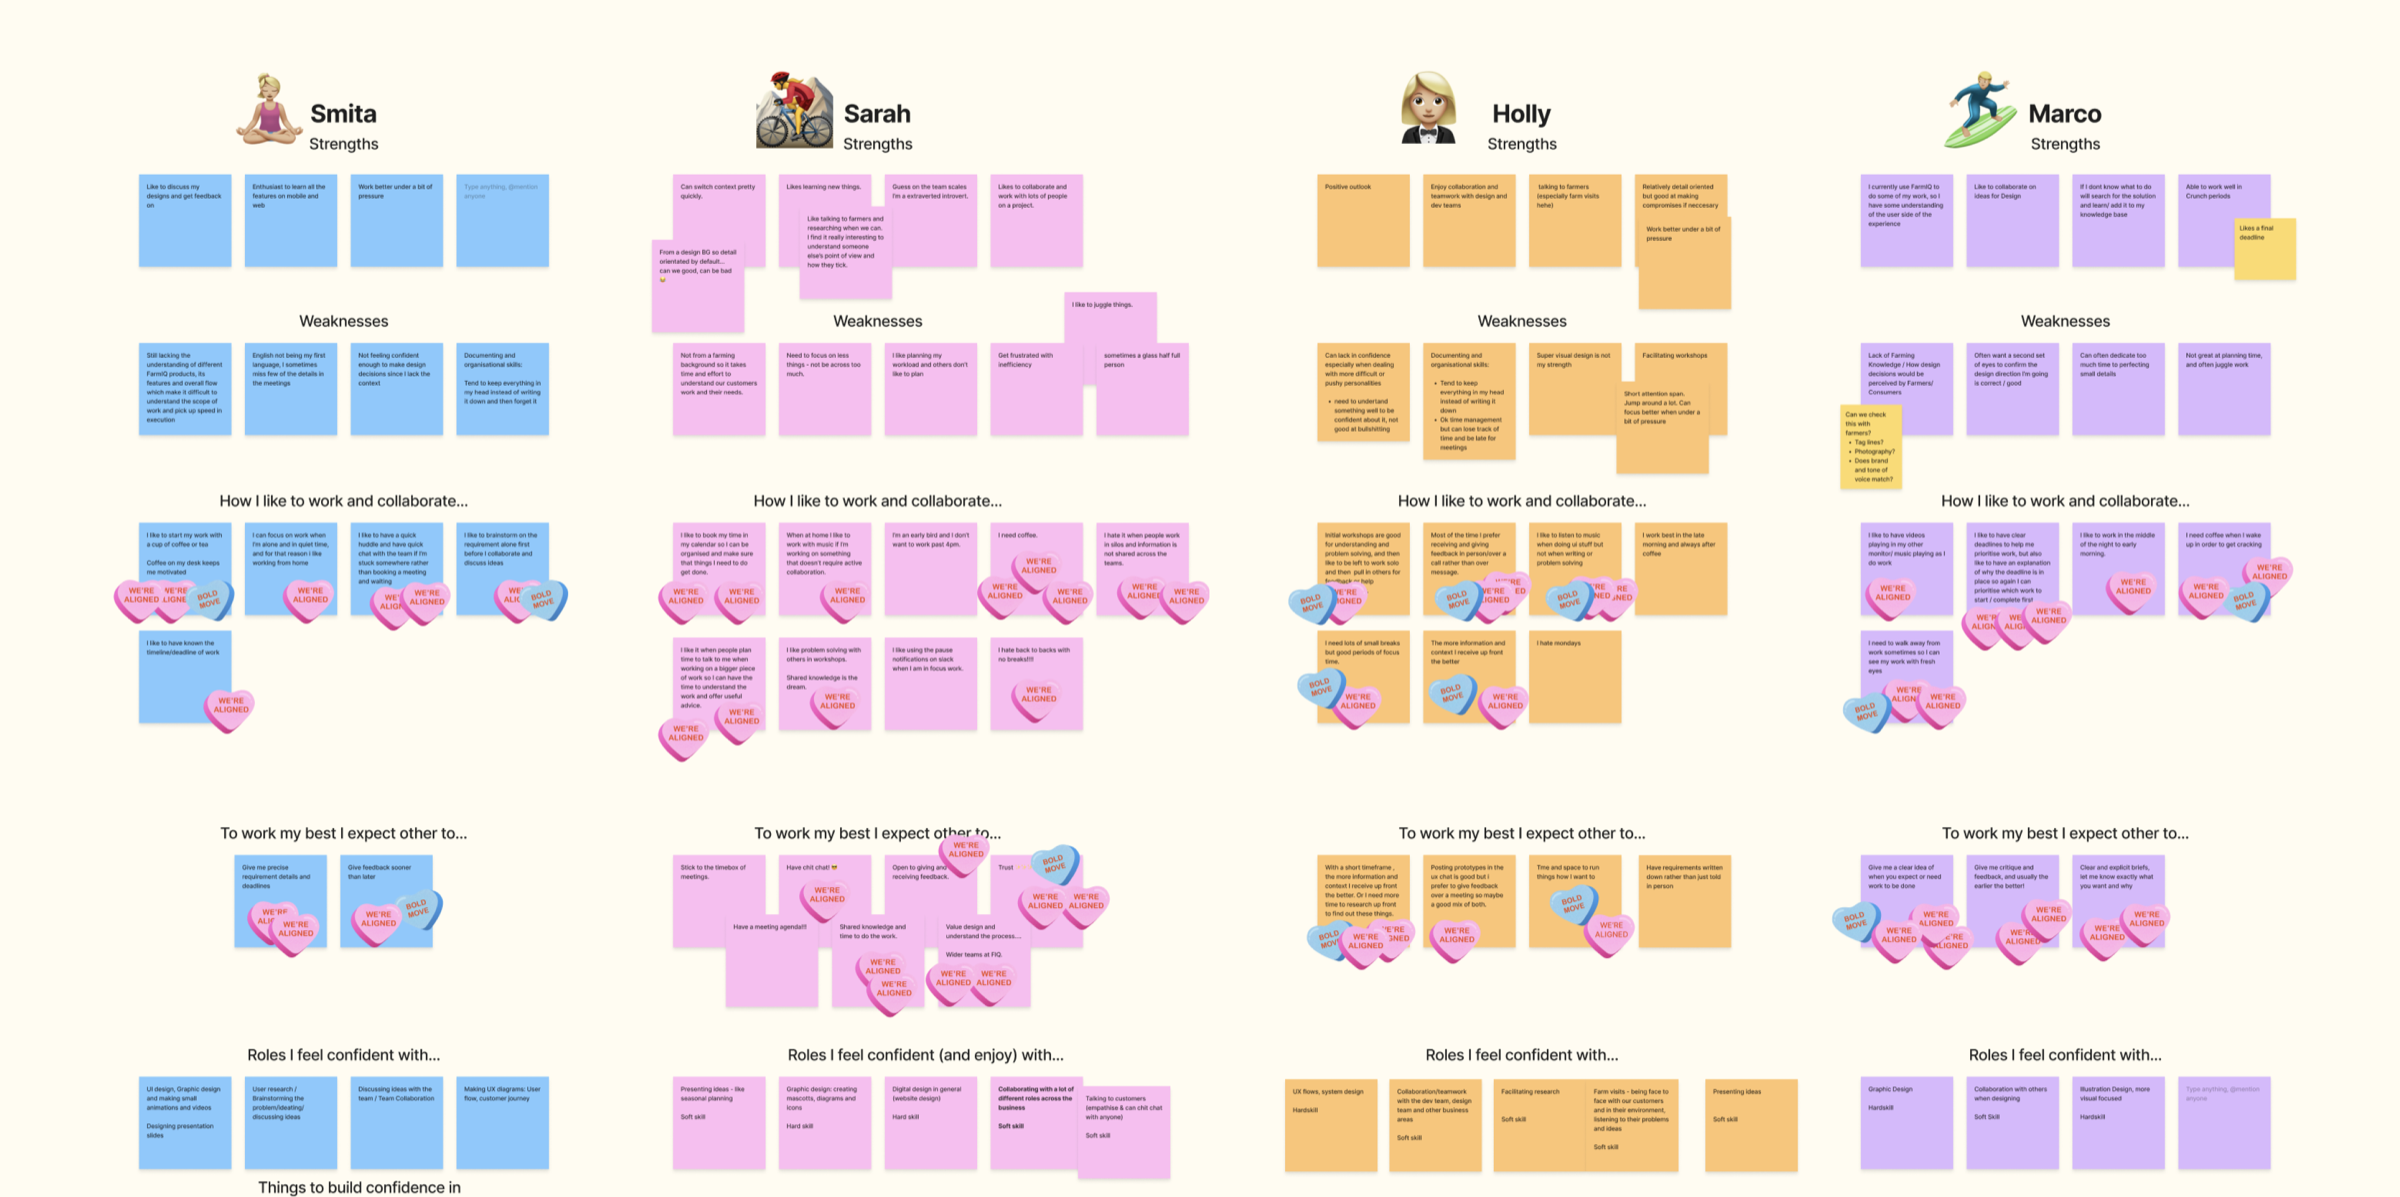
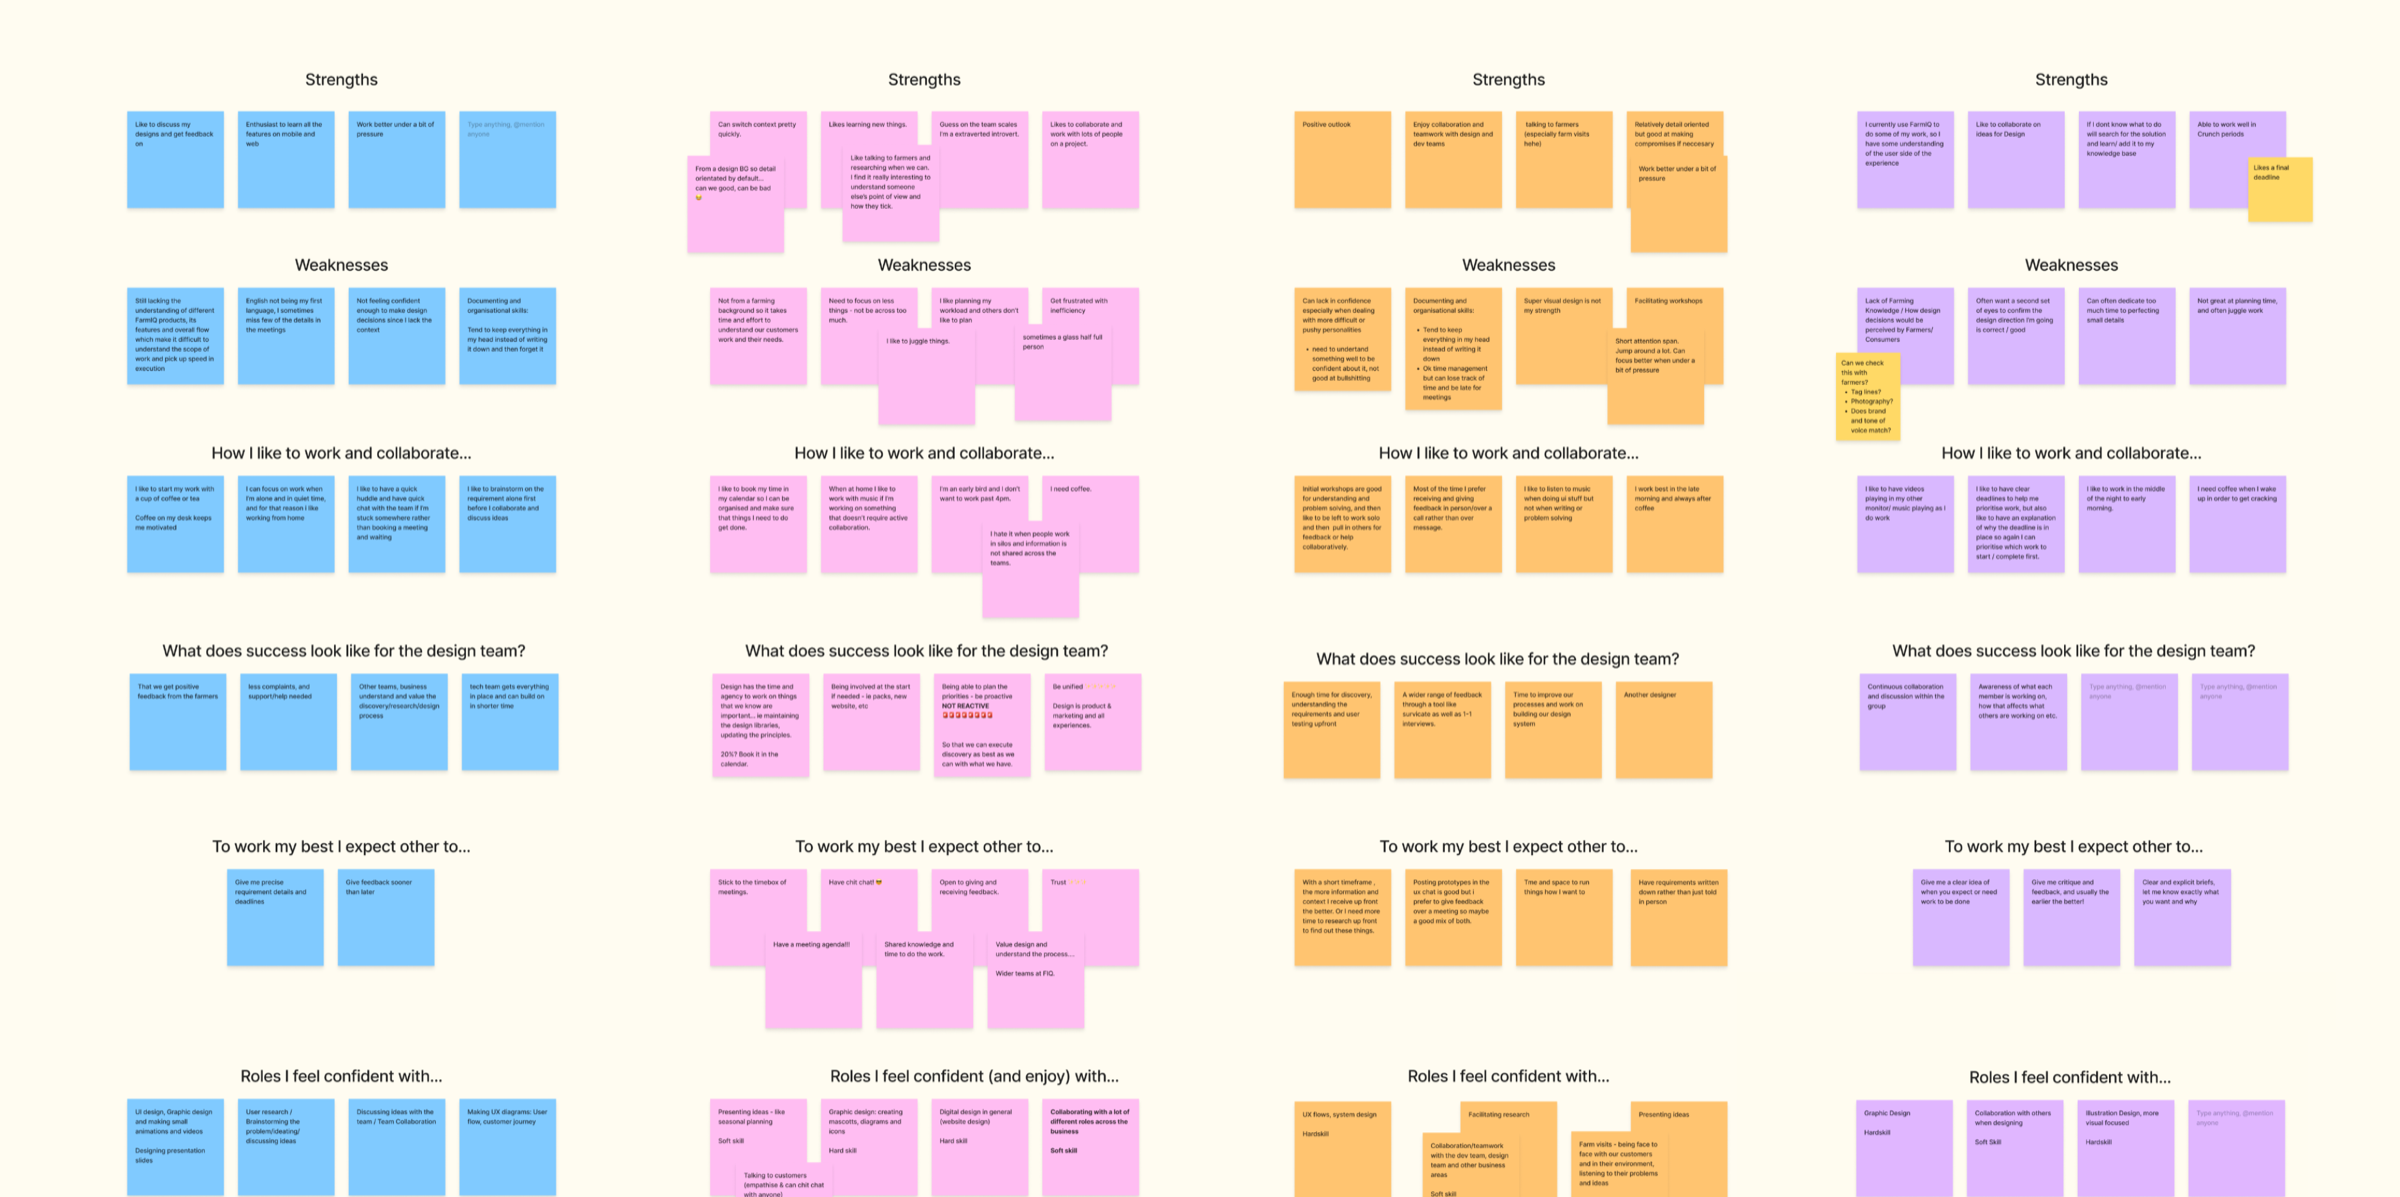
Design Leadership & case study fixes

diff --git a/src/data/case-studies/design-leadership.ts b/src/data/case-studies/design-leadership.ts
@@ -49,11 +49,14 @@ export const designLeadership: CaseStudy = {
     variant: "team",
     background: {
       src: "/images/design-leadership/01-hero-board.png",
-      alt: "Team retro board — strengths, weaknesses, and working styles for Smita, Sarah, Holly, and Marco",
-      // Pre-cropped by Sarah in Figma to her exact chosen bottom edge
-      // (01-hero-cover-CROP.png, 2026-08-15) — not consumed by TeamHero.astro
-      // itself (it reads the image's own natural size), kept accurate here
-      // for documentation/consistency with the rest of the schema.
+      alt: "Team charter board — strengths, working styles, and collaboration agreements for Smita, Sarah, Holly, and Marco",
+      // Pre-cropped by Sarah in Figma to her exact chosen bottom edge, then
+      // re-exported 2026-09-06 with the candy-heart stickers removed ("Cover-
+      // Less Hearts.png" in New Website/Leadership/) — they read too playful
+      // at hero scale and undercut the leadership framing; the stickies stay.
+      // Not consumed by TeamHero.astro itself (it reads the image's own
+      // natural size), kept accurate here for schema consistency. Resized to
+      // 2400px wide on import (from 4060) — same crop, same 2400/1197 ratio.
       aspect: "2400/1197",
     },
     people: [
@@ -89,7 +92,7 @@ export const designLeadership: CaseStudy = {
         },
       ],
       paragraphs: [
-        "I led FarmIQ's shift from ad-hoc design and fragmented UI to a repeatable operating model and multi-platform design system, grounded in real farmer roles and jobs-to-be-done.",
+        "I led FarmIQ's shift from ad-hoc design and fragmented UI to a repeatable operating model and multi-platform design system, grounded in real farmer roles and jobs-to-be-done. It started with the team itself. In a charter session, we mapped our strengths, working styles, and how we'd collaborate.",
         "What started as inconsistent products and a newly re-formed team became a governed system that let us move fast without sacrificing quality. The same foundations that went on to power two of FIQ's most-used features that I crafted, Diary and Tasks.",
       ],
       quote: {
@@ -101,7 +104,8 @@ export const designLeadership: CaseStudy = {
     {
       type: "imageBand",
       spacingBefore: "tighter",
-      layout: "two-equal",
+      wide: true,
+      layout: "two-uneven",
       images: [
         {
           src: "/images/design-leadership/07-brand-consistency.png",
@@ -150,6 +154,7 @@ export const designLeadership: CaseStudy = {
     {
       type: "imageBand",
       spacingBefore: "tight",
+      wide: true,
       background: "dots",
       layout: "two-equal",
       images: [
@@ -172,6 +177,7 @@ export const designLeadership: CaseStudy = {
     {
       type: "imageBand",
       spacingBefore: "tighter",
+      wide: true,
       background: "dots",
       layout: "single",
       images: [
@@ -272,7 +278,7 @@ export const designLeadership: CaseStudy = {
     },
     {
       type: "imageBand",
-      spacingBefore: "tighter",
+      spacingBefore: "tight",
       wide: true,
       background: "solid",
       layout: "three-grid",
@@ -411,7 +417,7 @@ export const designLeadership: CaseStudy = {
             aspect: "834/440",
           },
           quote:
-            "Sarah is laser focused on improving the customers' overall experience of the product, but she knows that won't be best served unless the whole team functions well. She has worked hard to improve collaboration within the Product Team, taking on extra work to ensure development always had what they needed. She tackles problems with expertise, energy, and a great attitude.",
+            "Sarah is laser focused on the customer experience, but she knows that won't be served unless the whole team functions well. She worked hard to improve collaboration within the Product Team, taking on extra work so development had what they needed.",
           attribution: "Todd White · Head of Product, FarmIQ",
           // Real photo: group farm shot, subjects spread across the frame —
           // text sits on the left per Figma, over the more open grass area.
@@ -433,9 +439,9 @@ export const designLeadership: CaseStudy = {
             aspect: "834/440",
           },
           quote:
-            "Sarah uplifted how we did research at FarmIQ, and she made sure I was part of shaping it, not just delivering it. Working closely with her on our principles, I grew more confident making my own calls. The work we did together raised the bar for design output across the product.",
+            "Sarah uplifted how we did research at FarmIQ, and she made sure I was part of shaping it, not just delivering it. Working closely with her on our principles, I grew more confident making my own calls.",
           attribution: "Holly Feary, Senior Product Designer, FarmIQ",
-          side: "left",
+          side: "right",
           // Hand-picked from the gradient's own dominant hue (magenta/pink),
           // not averaged.
           accentColor: "#8B2F6B",

diff --git a/src/lib/home.ts b/src/lib/home.ts
@@ -148,7 +148,7 @@ export const projectCards: ProjectCard[] = [
     // 404s until the case study is built.
     href: "/case-studies/design-leadership",
     src: "/images/home/covers/farmiq-design-team.png",
-    alt: "FarmIQ design team case study cover",
+    alt: "FarmIQ design system libraries with the design team",
     // 624/460 — deliberately smaller than Figma's real 691/509 (node
     // 123:220205, "Frame 45" in the 3-row/6-card grid there). Tried the
     // real Figma size 2026-08-11 while chasing a row-2 edge-alignment
@@ -161,20 +161,21 @@ export const projectCards: ProjectCard[] = [
     // alignment against row 1 is handled with `justify-between` on
     // `.project-row` in index.astro instead of resizing this card.
     aspect: "624/460",
-    logoSrc: "/images/farmiq-thrive/farmiq-logo-white.svg",
+    // Dark navy logo + dark title text since the 2026-09-06 cover swap
+    // (Memoji + design-system libraries + a baked lavender title bar on a
+    // light cream ground — replaced the old Memoji+hearts+pill graphic).
+    // The lavender bar is part of the art itself: at ≥1440px the card box
+    // (624/460) matches the export's ratio almost exactly so it lands where
+    // composed. Below 1440 the tile goes ~square/portrait and the bar
+    // drifts — left as-is per Sarah (2026-09-06), mobile/tablet polish
+    // deferred. No scrim (mix-blend-multiply darken-only is no help on a
+    // light image).
+    logoSrc: "/images/farmiq-thrive/farmiq-logo.svg",
     logoAlt: "FarmIQ",
     // Matches "Helping Farmers Thrive" above — see note there.
     logoWidth: 140,
     logoHeight: 28,
-    textTone: "light",
-    // calc(), not the original Figma percentages (66.3%/84.1%) — same fix
-    // as "Helping Farmers Thrive" above, same reason: those percentages
-    // are only correct at the 460px desktop box they were measured
-    // against. Reverse-engineered to fixed pixels from bottom (0.337 dark-
-    // start ≈ 155px, 0.159 dark-end ≈ 73px) so the dark region's real
-    // height holds constant at any box height instead of shrinking to an
-    // unreadable sliver on tablet.
-    scrim: "linear-gradient(to bottom, rgba(255,255,255,0.5) calc(100% - 155px), rgba(106,106,114,0.5) calc(100% - 73px))",
+    textTone: "dark",
     hover: {
       color: "#ffb2ea",
       opacity: 0.98,
@@ -369,7 +370,7 @@ export const heroCovers: HeroCover[] = [
   },
   {
     src: "/images/home/hero/03-design-leadership.png",
-    alt: "Leading the Design Team",
+    alt: "FarmIQ design system libraries with the design team",
     top: 120,
     left: 258,
     width: 355,

diff --git a/src/data/case-studies/farmiq-thrive.ts b/src/data/case-studies/farmiq-thrive.ts
@@ -71,20 +71,21 @@ export const farmiqThrive: CaseStudy = {
     {
       type: "imageBand",
       spacingBefore: "tighter",
-      layout: "two-equal",
+      wide: true,
+      layout: "two-uneven",
       images: [
         {
-          src: "/images/farmiq-thrive/02-fast-decisions-field.jpg",
-          alt: "Farmers making fast decisions in the field.",
-          caption: "Farmers making fast decisions in the field.",
+          src: "/images/farmiq-thrive/03-recording-data-moment.jpg",
+          alt: "Recording data in the moment, no catching up at night.",
+          caption: "Recording data in the moment, no catching up at night.",
           captionTone: "light",
           aspect: "600/400",
           aspectMobile: "1/1",
         },
         {
-          src: "/images/farmiq-thrive/03-recording-data-moment.jpg",
-          alt: "Recording data in the moment, no catching up at night.",
-          caption: "Recording data in the moment, no catching up at night.",
+          src: "/images/farmiq-thrive/02-fast-decisions-field.jpg",
+          alt: "Farmers making fast decisions in the field.",
+          caption: "Farmers making fast decisions in the field.",
           captionTone: "light",
           aspect: "600/400",
           aspectMobile: "1/1",
@@ -113,6 +114,7 @@ export const farmiqThrive: CaseStudy = {
     {
       type: "imageBand",
       spacingBefore: "tight",
+      wide: true,
       background: "dots",
       layout: "two-equal",
       images: [
@@ -135,6 +137,7 @@ export const farmiqThrive: CaseStudy = {
     {
       type: "imageBand",
       spacingBefore: "tighter",
+      wide: true,
       background: "dots",
       layout: "single",
       images: [
@@ -212,7 +215,7 @@ export const farmiqThrive: CaseStudy = {
     },
     {
       type: "imageBand",
-      spacingBefore: "tighter",
+      spacingBefore: "tight",
       wide: true,
       background: "solid",
       layout: "three-grid",

diff --git a/src/lib/case-study.ts b/src/lib/case-study.ts
@@ -143,7 +143,13 @@ export type CaseStudySection = (
     }
   | {
       type: "imageBand";
-      layout: "single" | "two-equal" | "three-grid";
+      /**
+       * "two-uneven" is a 2/5 + 3/5 split (left/right) — Figma's post-intro
+       * band where the right photo runs larger. Images keep their own
+       * aspect ratios, so the wider column simply renders taller; pair it
+       * with `wide` for the full-bleed version shown in the design.
+       */
+      layout: "single" | "two-equal" | "two-uneven" | "three-grid";
       images: CaseStudyImage[];
       /** Breaks out to the full 1440 canvas instead of the 1010 content column (Figma's "Image grid" band). */
       wide?: boolean;
@@ -225,6 +231,16 @@ export interface CaseStudy {
   authorName: string;
   /** Where the side nav's "Back" link and the top nav's "All Projects" go. */
   backHref?: string;
+  /**
+   * The desktop side nav wipes out of the way (bottom-up `mask-image`
+   * sweep + fade) whenever a full-bleed element — a `wide` image band or
+   * the pinned quote carousel, anything marked `data-covers-nav` — scrolls
+   * through its pinned zone, then wipes back once it passes. Honours
+   * `prefers-reduced-motion`. **On by default** for every case study; set
+   * this to `false` to opt a page out. Inert on pages with no full-bleed
+   * elements (the observer finds nothing to watch).
+   */
+  dimNavOverWideBands?: boolean;
   sections: CaseStudySection[];
 }
 
